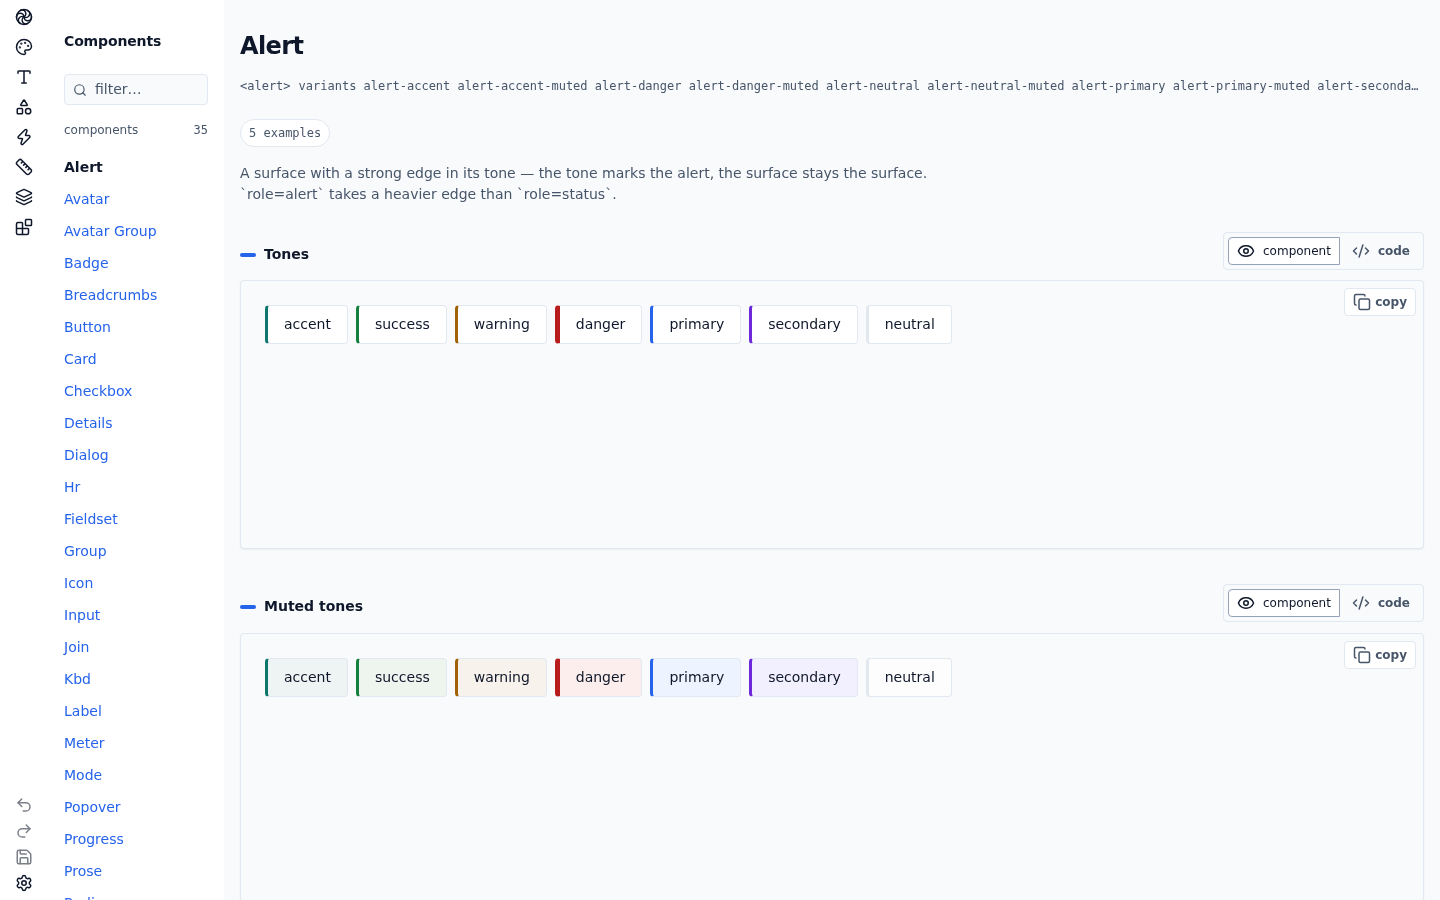
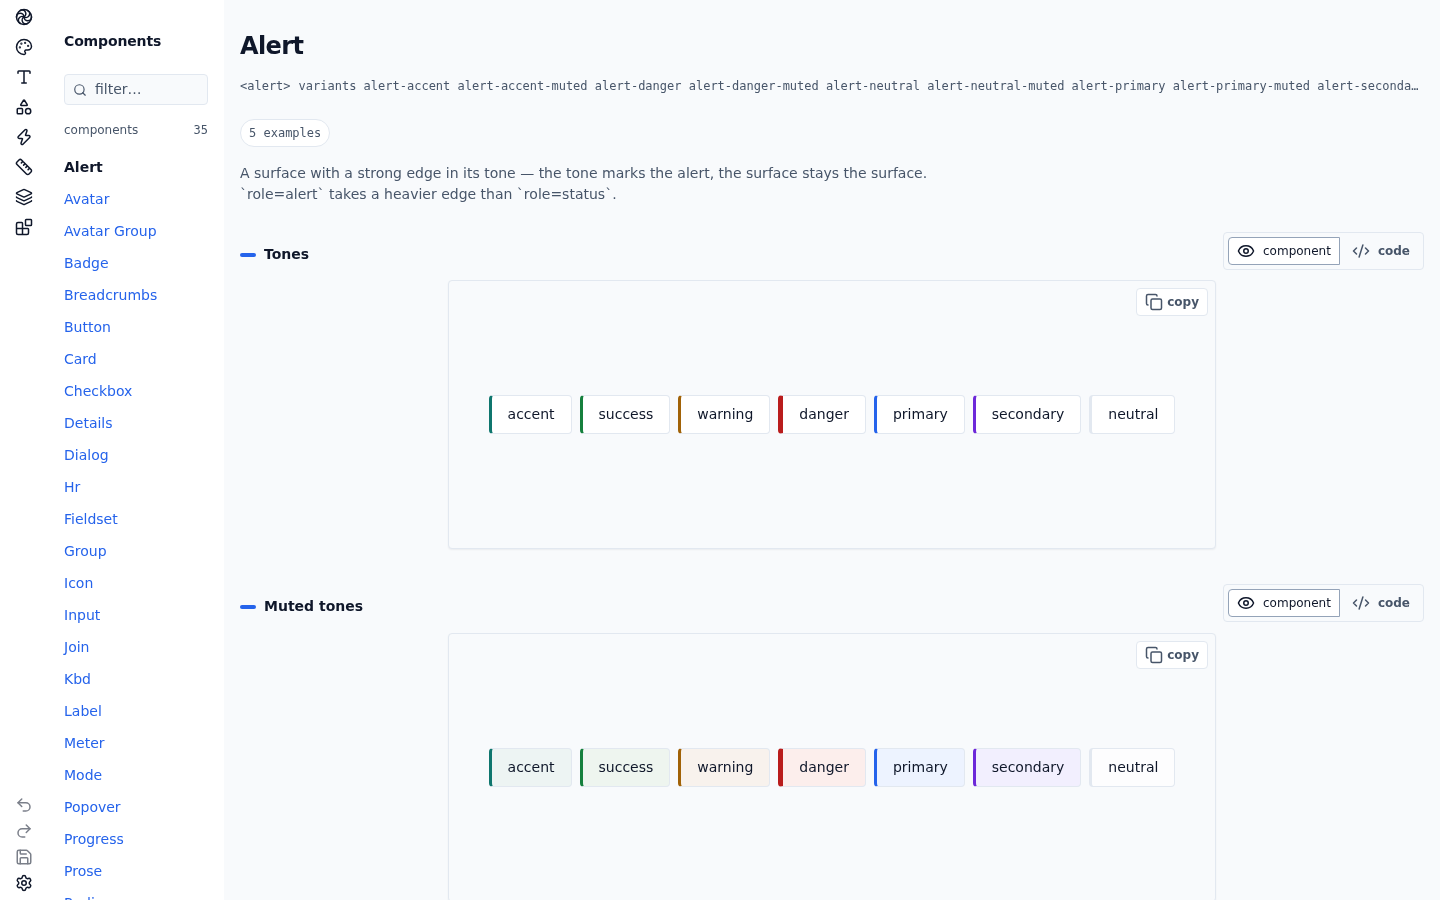
studio: stop base64 eating the component example pages
An avatar specimen shipped a four-kilobyte base64 image in an attribute,
and the code panel broke that single attribute across hundreds of lines
because there was no word token short enough to refuse. The panel kept the
room for all of them - the grid cell does not lie about the text it is
holding - so an avatar page ran to a long scroll of whitespace with the
specimen tucked into the corner. The formatter now keeps the shape and hides
the payload: the payload is bytes the page forgets how to read, and the
bytes are still on disk for the stylesheet registry.

diff --git a/apps/studio/src/lib/code.ts b/apps/studio/src/lib/code.ts
@@ -357,10 +357,19 @@ function formatNode(node: FormatNode, depth: number): string {
  * replaces whitespace-only runs and nothing else.
  */
 export function formatExampleHtml(html: string): string {
+  // A base64 data URI is an image compressed into an attribute, and a code
+  // panel is where the example's markup is READ. Thousands of bytes of
+  // base64 only eat the page and say nothing, so the panel carries the
+  // shape, not the payload — the bytes still live in the markup the preview
+  // registers as stylesheet content.
+  const collapsed = html.replace(
+    /src=(["'])data:[^"']*/g,
+    (_match, quote: string) => `src=${quote}data:…`,
+  );
   // Roots that are only elements break between siblings; a root that spells
   // text keeps its neighbours on the same line, because a newline a
   // formatter adds beside text is text the markup did not have.
-  const roots = parseForFormat(html).filter(
+  const roots = parseForFormat(collapsed).filter(
     (n) => n.kind !== "text" || !/^\s*$/.test(n.text),
   );
   const inline = roots.some((n) => n.kind === "text");
